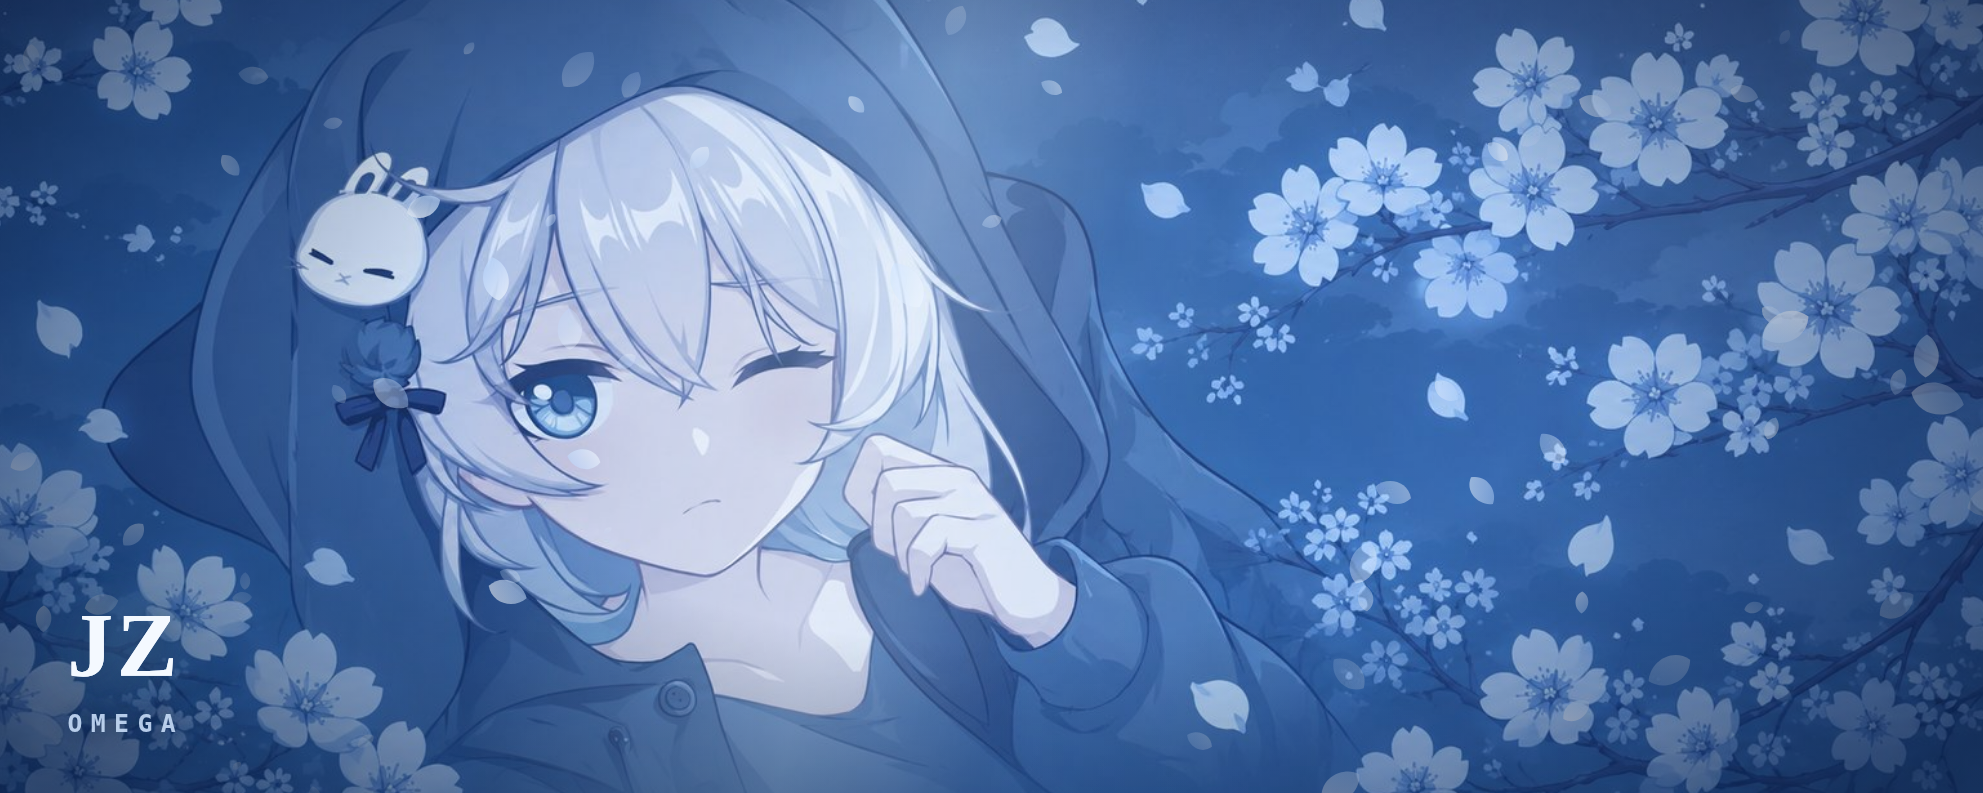
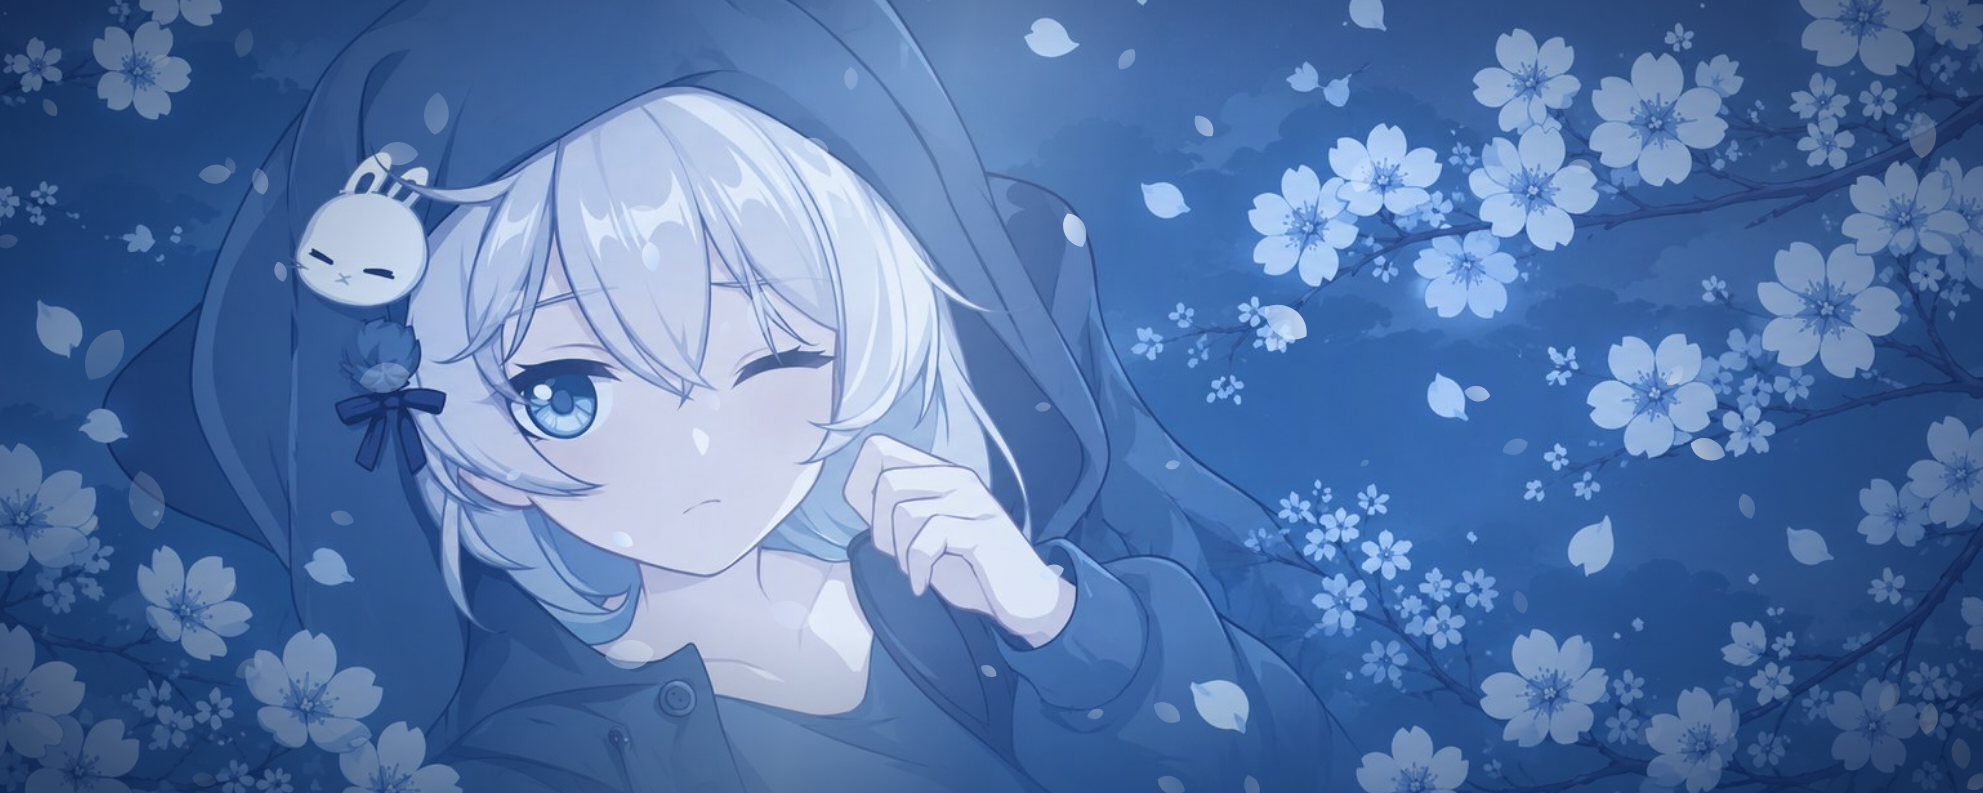
Masque la signature par défaut et régénère les PNG sans texte
La bannière exportée ne contient plus que l'illustration et ses effets.
Le bouton Signature reste disponible pour la réafficher.

Claude-Session: https://claude.ai/code/session_01TqA2zhXAytnpV1TGxonHX1

diff --git a/banner/banner.html b/banner/banner.html
@@ -324,7 +324,7 @@ body.capture .exit-capture{display:block}
   <header>
     <p class="eyebrow">Bannière animée · 1983 × 793</p>
     <h1>Sakura nocturne</h1>
-    <p class="lede">Ton image en fond, avec quatre couches d’animation par-dessus : les pétales qui tombent, un zoom lent, un reflet lumineux qui traverse, et ta signature. Tout se coupe indépendamment ci-dessous.</p>
+    <p class="lede">Ton image en fond, avec les pétales qui tombent, un zoom lent et un reflet lumineux qui traverse. Chaque couche se coupe indépendamment, et le PNG exporté reprend exactement ce que tu vois — rien d’autre que la bannière.</p>
   </header>
 
   <div class="stage" id="stage">
@@ -345,7 +345,7 @@ body.capture .exit-capture{display:block}
       <button class="chip" type="button" data-flag="no-petals" aria-pressed="true"><span class="dot"></span>Pétales</button>
       <button class="chip" type="button" data-flag="no-zoom" aria-pressed="true"><span class="dot"></span>Zoom lent</button>
       <button class="chip" type="button" data-flag="no-sweep" aria-pressed="true"><span class="dot"></span>Reflet</button>
-      <button class="chip" type="button" data-flag="no-mark" aria-pressed="true"><span class="dot"></span>Signature</button>
+      <button class="chip" type="button" data-flag="no-mark" aria-pressed="false"><span class="dot"></span>Signature</button>
     </div>
     <label class="slider">Densité
       <input id="density" type="range" min="10" max="160" step="5" value="70">
@@ -359,8 +359,8 @@ body.capture .exit-capture{display:block}
   <div class="notes">
     <div class="note">
       <h2>Signature</h2>
-      <p>Clique sur <strong>JZ</strong> ou sur <strong>omega</strong> dans la bannière et tape ton propre texte — c’est modifiable directement.</p>
-      <p>Les réglages et le texte sont retenus sur cet appareil, tu retrouves ta version en revenant.</p>
+      <p>La bannière est nue par défaut. Si tu veux y poser un nom, active <strong>Signature</strong> : un texte apparaît en bas à gauche, cliquable pour taper le tien.</p>
+      <p>Tes réglages sont retenus sur cet appareil, tu retrouves ta version en revenant.</p>
     </div>
     <div class="note">
       <h2>Récupérer la bannière</h2>
@@ -416,9 +416,12 @@ body.capture .exit-capture{display:block}
   nameEl.addEventListener('input', function(){ state.name = nameEl.textContent.slice(0,24); save(); });
   subEl.addEventListener('input', function(){ state.sub = subEl.textContent.slice(0,32); save(); });
 
+  var OFF_BY_DEFAULT = {'no-mark': true};   /* la signature est masquée au départ */
   Array.prototype.forEach.call(document.querySelectorAll('.chip[data-flag]'), function(btn){
     var flag = btn.dataset.flag;
-    var on = state.flags[flag] !== true;   /* flag posé = couche coupée */
+    var on = flag in state.flags
+      ? state.flags[flag] !== true            /* flag posé = couche coupée */
+      : !OFF_BY_DEFAULT[flag];
     apply(btn, flag, on);
     btn.addEventListener('click', function(){
       on = !on;

diff --git a/banner/README.md b/banner/README.md
@@ -8,17 +8,18 @@ Ouvre le fichier dans un navigateur (double-clic suffit, l'image est intégrée
 dedans, aucun fichier à côté n'est nécessaire).
 
 - quatre couches à couper/remettre : pétales, zoom lent, reflet, signature ;
-- la signature (« JZ » / « omega ») se modifie en cliquant dessus ;
+- la signature est masquée par défaut ; si tu l'actives, le texte se modifie
+  en cliquant dessus ;
 - le curseur **Densité** règle le nombre de pétales ;
 - **Mode capture** affiche la bannière seule, plein écran, pour l'enregistrer ;
 - **Télécharger en PNG** exporte la bannière seule en `1983 × 793`, avec les
-  pétales, le reflet et la signature tels qu'ils sont à l'instant du clic.
+  pétales et le reflet tels qu'ils sont à l'instant du clic, et rien d'autre.
 
 ## 2. Les fichiers prêts à l'emploi
 
 | Fichier | Taille | Usage |
 | --- | --- | --- |
-| `banner-1983x793.png` | 1983 × 793 | image fixe pleine résolution |
+| `banner-1983x793.png` | 1983 × 793 | image fixe pleine résolution, sans texte |
 | `banner-discord-680x240.png` | 1360 × 480 | bannière de profil Discord (×2) |
 | `banner-discord.gif` | 680 × 240 | bannière de profil Discord |
 | `banner-wide.gif` | 960 × 384 | en-tête large (2.5:1, le format d'origine) |
